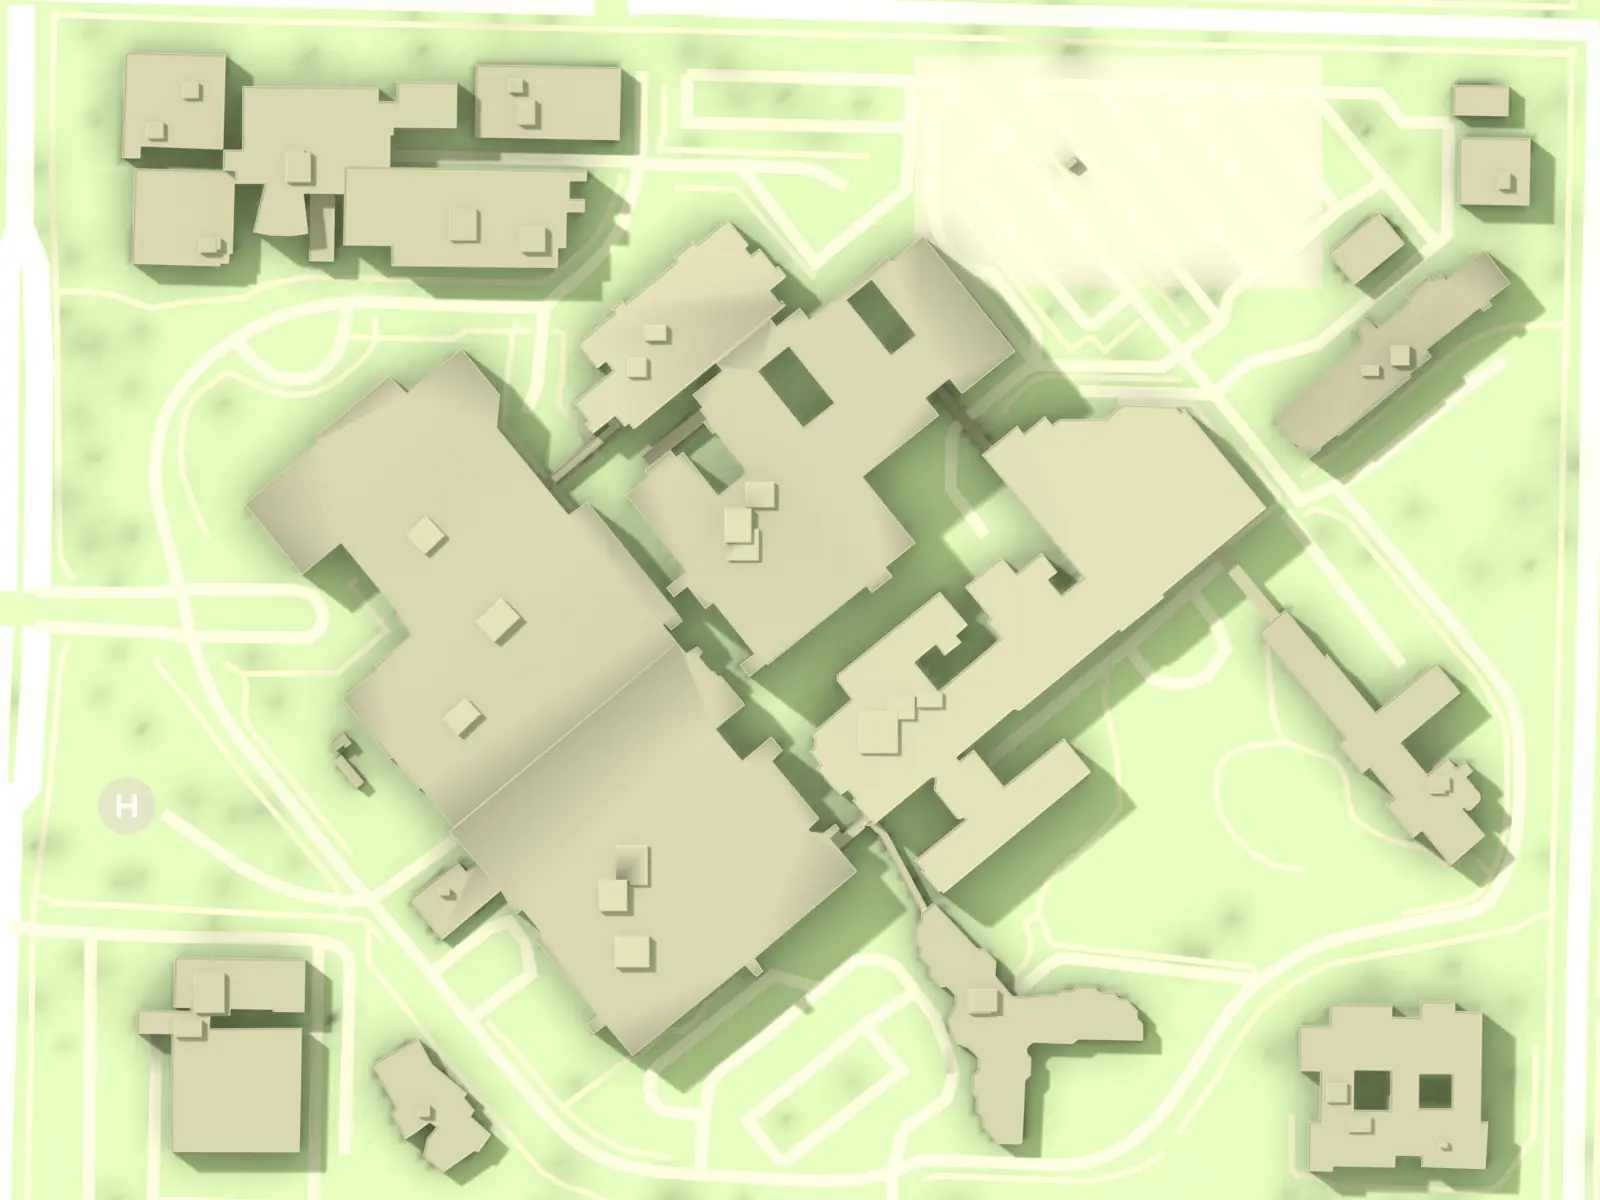
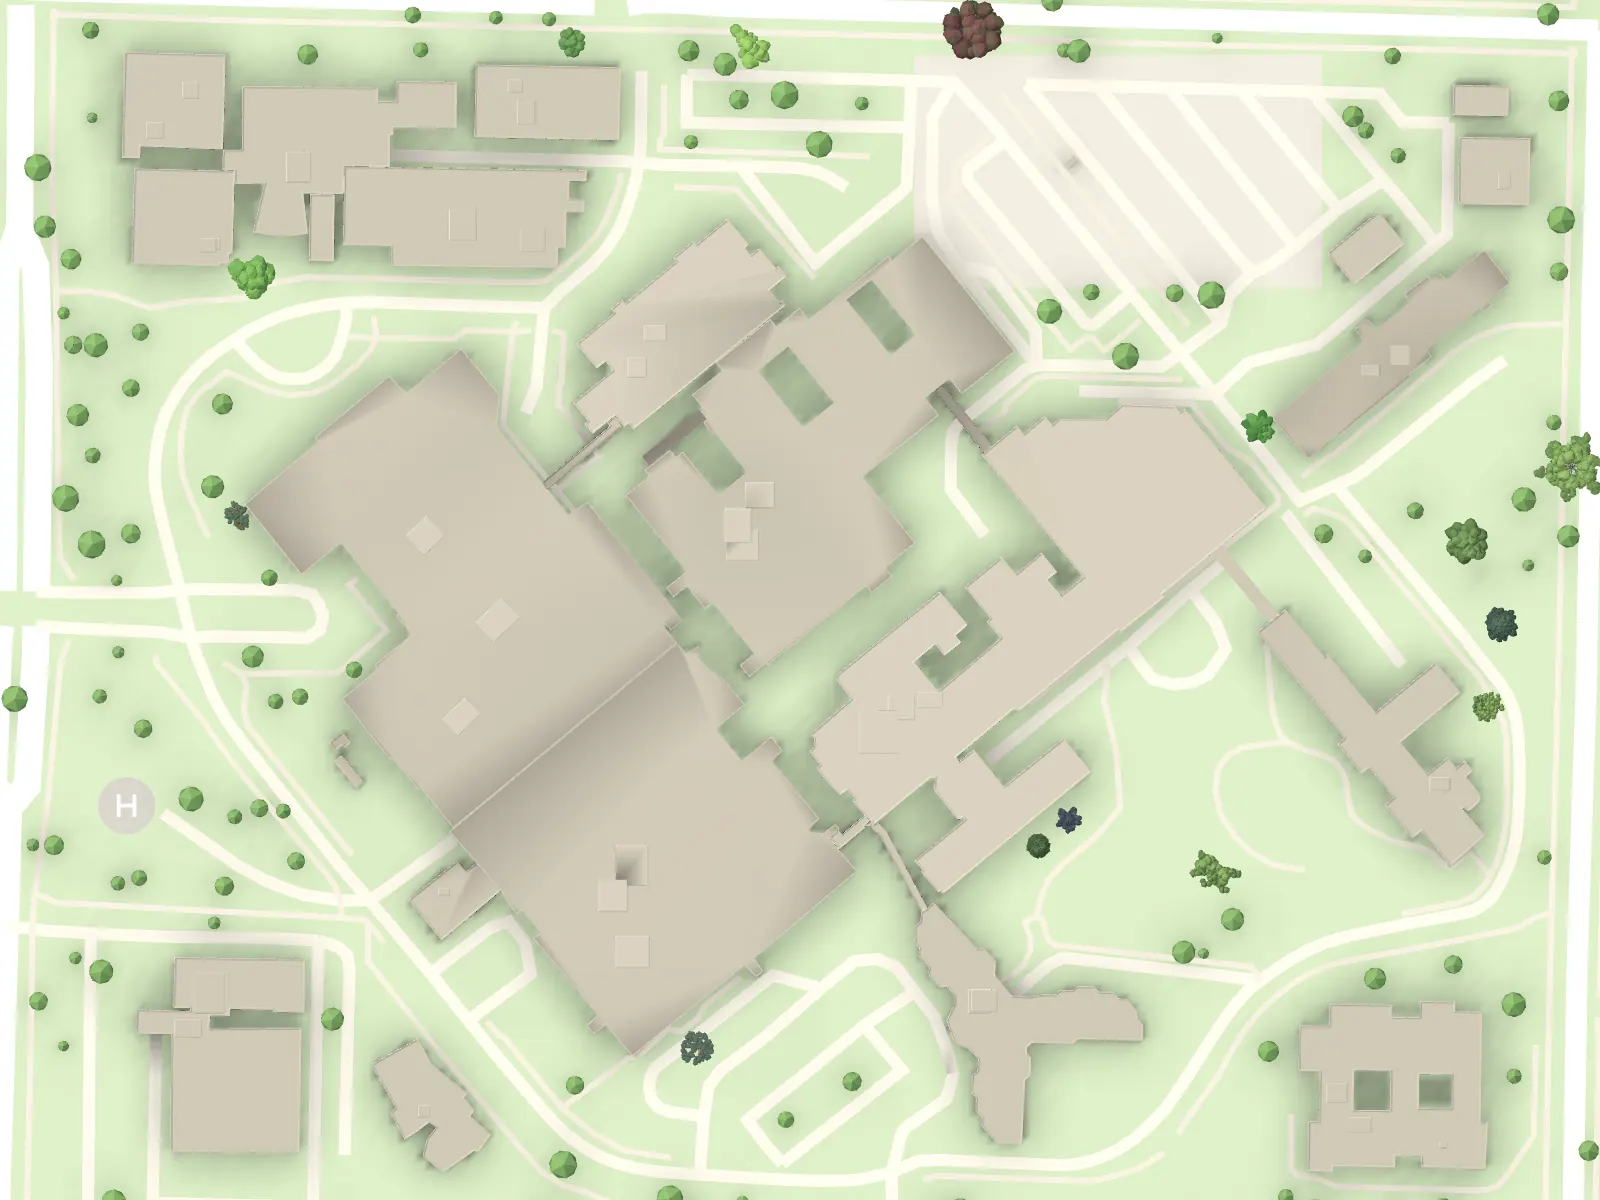
Slider: render route map from map.glb with the 3D viewer's lighting
The Blender EEVEE render had blotchy sun shadows and a smeared parking
lot. The map image is now a top-down orthographic Three.js render of
docs/models/map.glb using the same ambient + sun light as docs/main.js,
so it matches the 3D map. Same frame as before (pins within 1 px), so
route-map.js positions are unchanged apart from the source note.

Claude-Session: https://claude.ai/code/session_01TfYhx5B5dAUKcrZw17smR8

diff --git a/docs/slider/route-map.js b/docs/slider/route-map.js
@@ -1,4 +1,5 @@
-// Route map data, generated from source/map/map_v8.blend (top-down orthographic render,
+// Route map data. Image: top-down orthographic render of docs/models/map.glb with the 3D viewer’s
+// lighting (Three.js), frame matched to the Blender export below. Positions: from source/map/map_v8.blend (top-down orthographic render,
 // 1600x1200, saved as img/route-map.webp). Coordinates are pixels in that image.
 // Regenerate from Blender if the map or the tour path changes; don't hand-edit.
 
